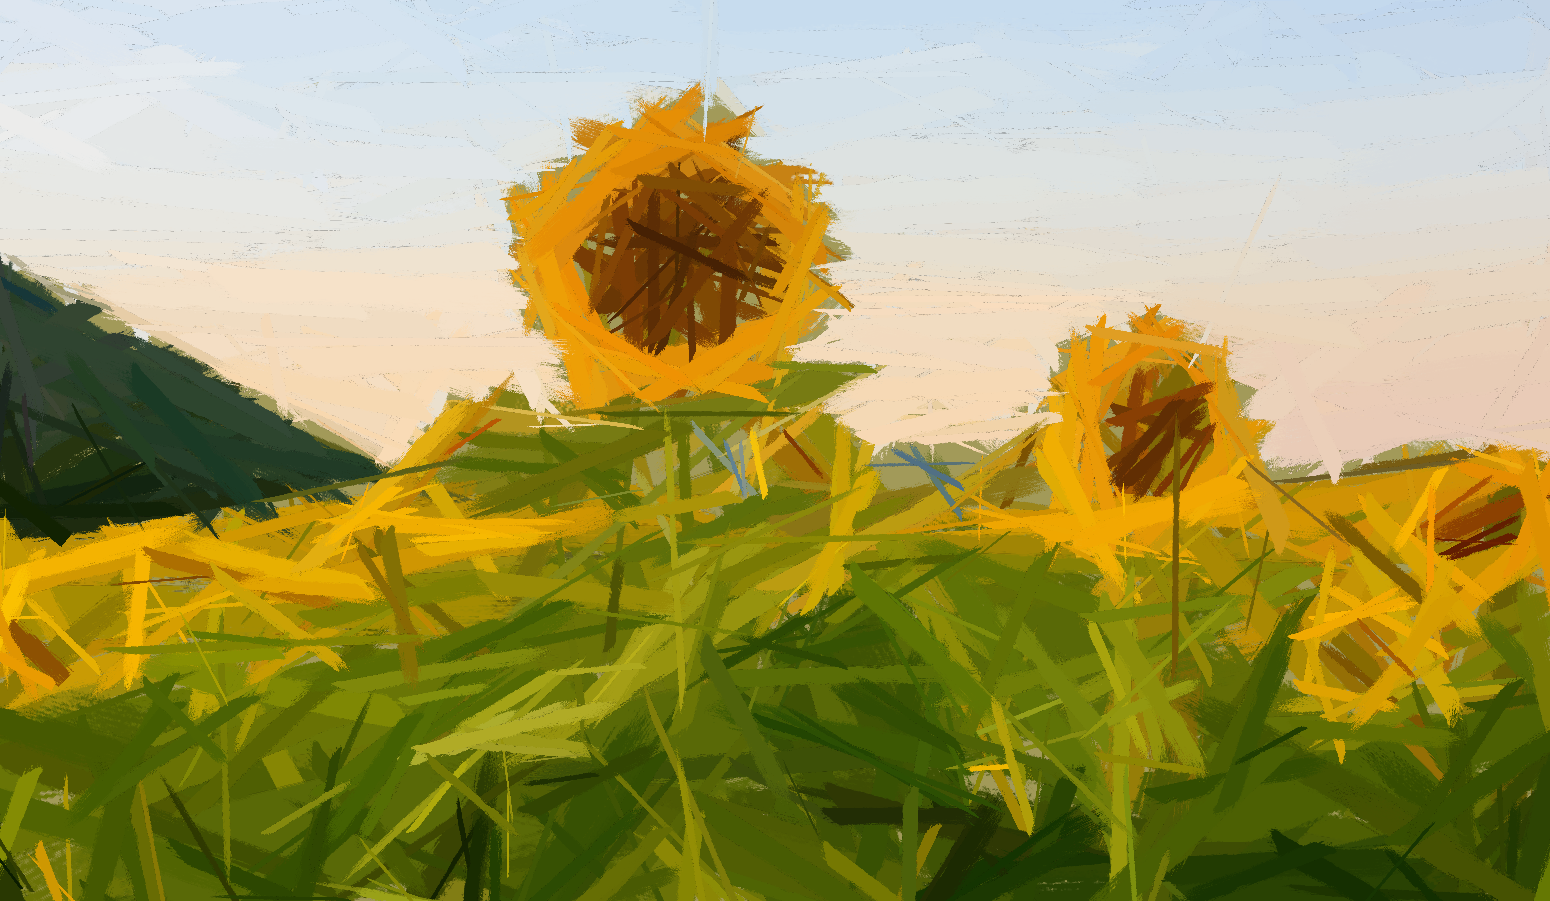
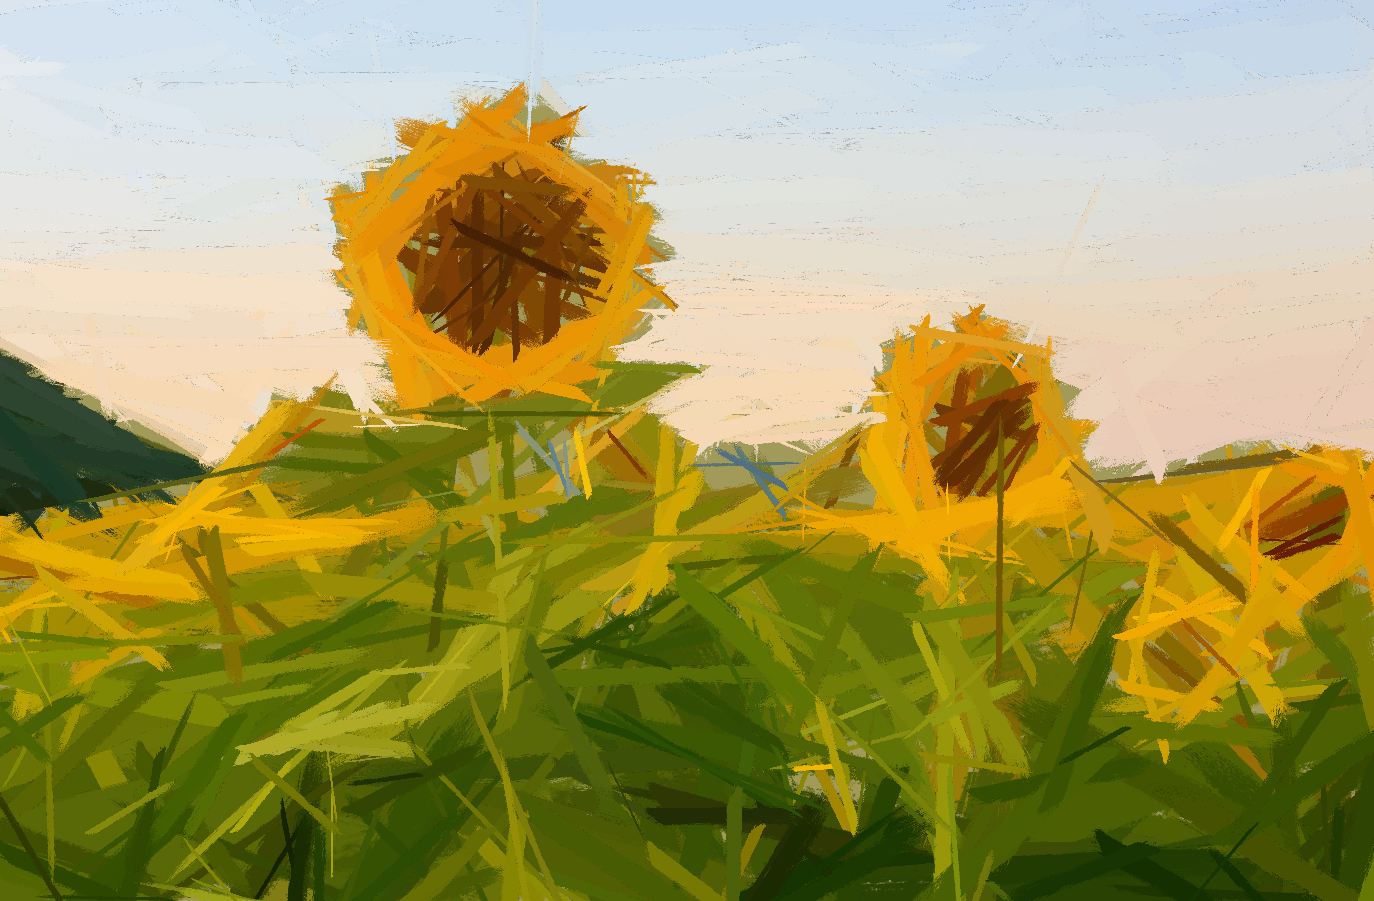
Added more stuff to readme

diff --git a/utils/rectangle.py b/utils/rectangle.py
@@ -82,8 +82,8 @@ def get_mutated_rectangle_copy(rectangle, canvas_height, canvas_width, vector_fi
         
     if case == 1:
         # Case 1: Mutate x and y
-        dx = np.random.randint(-50, 50)
-        dy = np.random.randint(-50, 50)
+        dx = np.random.randint(-100, 100)
+        dy = np.random.randint(-100, 100)
         mutated[0] = clamp_int(x + dx, 0, canvas_width - 1)
         mutated[1] = clamp_int(y + dy, 0, canvas_height - 1)
 

diff --git a/README.md b/README.md
@@ -149,37 +149,80 @@ You can obtain a painted version of an input GIF too
 </p>
 
 
+## Influential parameters
+
+### 1) Number of textures
+
+Depending on how many textures are added to the cavas, you can obtain a painting with a desired level of detail. The following example demonstrates a painting of a cat, created from increasing number of textures.
+
+| 100 | 200 | 300 | 400 |
+|:---:|:---:|:---:|:---:|
+| <img src="readme_stuff/100.png" width="100%"/> | <img src="readme_stuff/200.png" width="100%"/> | <img src="readme_stuff/300.png" width="100%"/> | <img src="readme_stuff/400.png" width="100%"/> |
+
+| 500 | 1000 | 2000 | 5000 |
+|:---:|:---:|:---:|:---:|
+| <img src="readme_stuff/500.png" width="100%"/> | <img src="readme_stuff/1000.png" width="100%"/> | <img src="readme_stuff/2000.png" width="100%"/> | <img src="readme_stuff/5000.png" width="100%"/> |
+
+
+
+
+### 2) Number of hill climbing steps
+
+Given a fixed number of textures, the quality of their placement can be significantly affected by the number of optimization steps used. In this application, the number of optimization steps increases linearly from `min_iterations` to `max_iterations`. In this example, 400 textures are applied with varying numbers of hill climbing steps. The painting with fewer optimization steps appears messier and more chaotic, while the one with more steps results in a cleaner and more structured composition. Finer strokes generally benefit from more precise placement to improve the overall coherence of the painting. 
+
+| 1–50 steps | 50–200 steps | 500–1000 steps |
+|:----:|:------:|:--------:|
+| <img src="readme_stuff/1_to_50.png" width="100%"/> | <img src="readme_stuff/50_to_200.png" width="100%"/> | <img src="readme_stuff/500_to_1000.png" width="100%"/> |
+
+### 3) Computational canvas size
+*(Not to be confused with the output canvas size)*
+
+To generate a highly realistic and detailed painting, thousands of textures may be applied. However, as the level of detail increases, the canvas resolution eventually becomes the limiting factor, no matter how many textures are used. Typically, a canvas size of 200-300 pixels strikes a good balance between computational speed and visual quality. For finer detail, you can increase the canvas size, though this will result in longer processing times.
+
+The example below compares two paintings, each generated with 10,000 textures and identical parameter settings, except for the computational canvas size. Despite having the same output resolution, the painting 
+created on a 300px canvas appears significantly more detailed than the other one created on a 100px canvas, demonstrating the impact of computational resolution on final quality.
+
+
+
+
+| 100px | 300px |
+|:-----:|:-----:|
+| <img src="readme_stuff/night_city_low_res.png" width="100%"/> | <img src="readme_stuff/night_city_high_res.png" width="100%"/> |
+
+
 
 ## Setting creative constraints
 
 
-### 1) Texture Type
-Aside from paint strokes, you can select any texture to create different styles of paintings.
+### 1) Texture Types
+Aside from paint strokes, you can use various textures to create different styles of paintings.
 
-#### Shapes
-Painting with traingles, squares and circle textures
+
+**Traingles, squares and circles**
 <p float="left">
-  <img src="readme_stuff/mona_lisa_shape.png" height = "260"/>
-  <img src="readme_stuff/night_city.png" height = "260" /> 
-    <img src="readme_stuff/dog.png" height = "260" /> 
-
+  <img src="readme_stuff/mona_lisa_shape.png" height = "242"/>
+  <img src="readme_stuff/wave.png" height = "242" /> 
+  <img src="readme_stuff/dog.png" height = "242" /> 
 </p>
 
 
 
-#### Lines
-Painting with long lines as textures
+**Long lines**
 <p float="left">
-  <img src="readme_stuff/vg.png" height = "260" /> 
-  <img src="readme_stuff/sunflower.png" height = "260" /> 
-  <img src="readme_stuff/sign_scribble.png" height = "260"/>
-
+  <img src="readme_stuff/vg.png" height = "240" /> 
+  <img src="readme_stuff/sunflower.png" height = "240" /> 
+  <img src="readme_stuff/sign_scribble.png" height = "240"/>
 </p>
 
 
 
 ### 2) Disable texture scaling
-By setting an initial texture size and restricting it, we can achieve painting styles like pointillism, where small textures are applied in patterns to form an image.
+By specifying and fixing a small texture size, you can create a distinctive painting style where all textures are uniformly sized. In this example, 10,000 circles are used, each constrained to 13 pixels. Given the canvas resolution of 317 pixels, the relatively small texture size results in a composition made entirely of tiny, dot-like elements.
+<p float="left">
+  <img src="readme_stuff/parrot.gif" height = "220" /> 
+  <img src="readme_stuff/parrot.png" height = "220" /> 
+</p>
+
 
 
 
@@ -205,9 +248,6 @@ Vector field constraints can be set for GIF inputs too
 </p>
 
 
-## Optimization Tips
-
-here are a few tips...
 
 
 ## How it works
@@ -283,27 +323,22 @@ This iterative process continues until an iteration limit is reached or terminat
 ### Painting the image
 By repeatedly applying the same optimization technique across several hundred strokes, we gradually build up the image, layer by layer, until a coherent painting emerges. The GIF below illustrates the overall painting process where each stroke's position, scale, and rotation are optimized using greedy hill climbing before being committed to the canvas.
 
-![Image](/readme_stuff/mona_lisa_gif_final.gif "Mona Lisa")
+<p float="center">
+  <img src="readme_stuff/mona_lisa_original.jpg" height = "400" /> 
+  <img src="readme_stuff/mona_lisa_gif_final.gif" height = "400"/>
+</p>
 
 
-## Optimizations implemented
+## Key optimisations implemented
 
-### Performance Tuning
-- **Computation Size**: 50-200 for testing, 300-600 for final output
-- **Texture Count**: 100-500 for speed, 1000-5000 for quality
-- **Multiprocessing**: Enable for GIFs with 10+ frames
+1) Numba 
+2) Per pixel scoring
+3) 
 
-### Quality Settings
-- **High Quality**: Large computation size, many textures, high iterations
-- **Fast Preview**: Small computation size, few textures, low iterations
-- **Balanced**: Medium settings with early termination enabled
-
-### Memory Considerations
-- Large GIFs may require significant RAM
-- Enable multiprocessing to distribute load
-- Consider reducing frame count for very long animations
 
 ## Lessons learnt
+
+
 
 ## Inspiration
 
